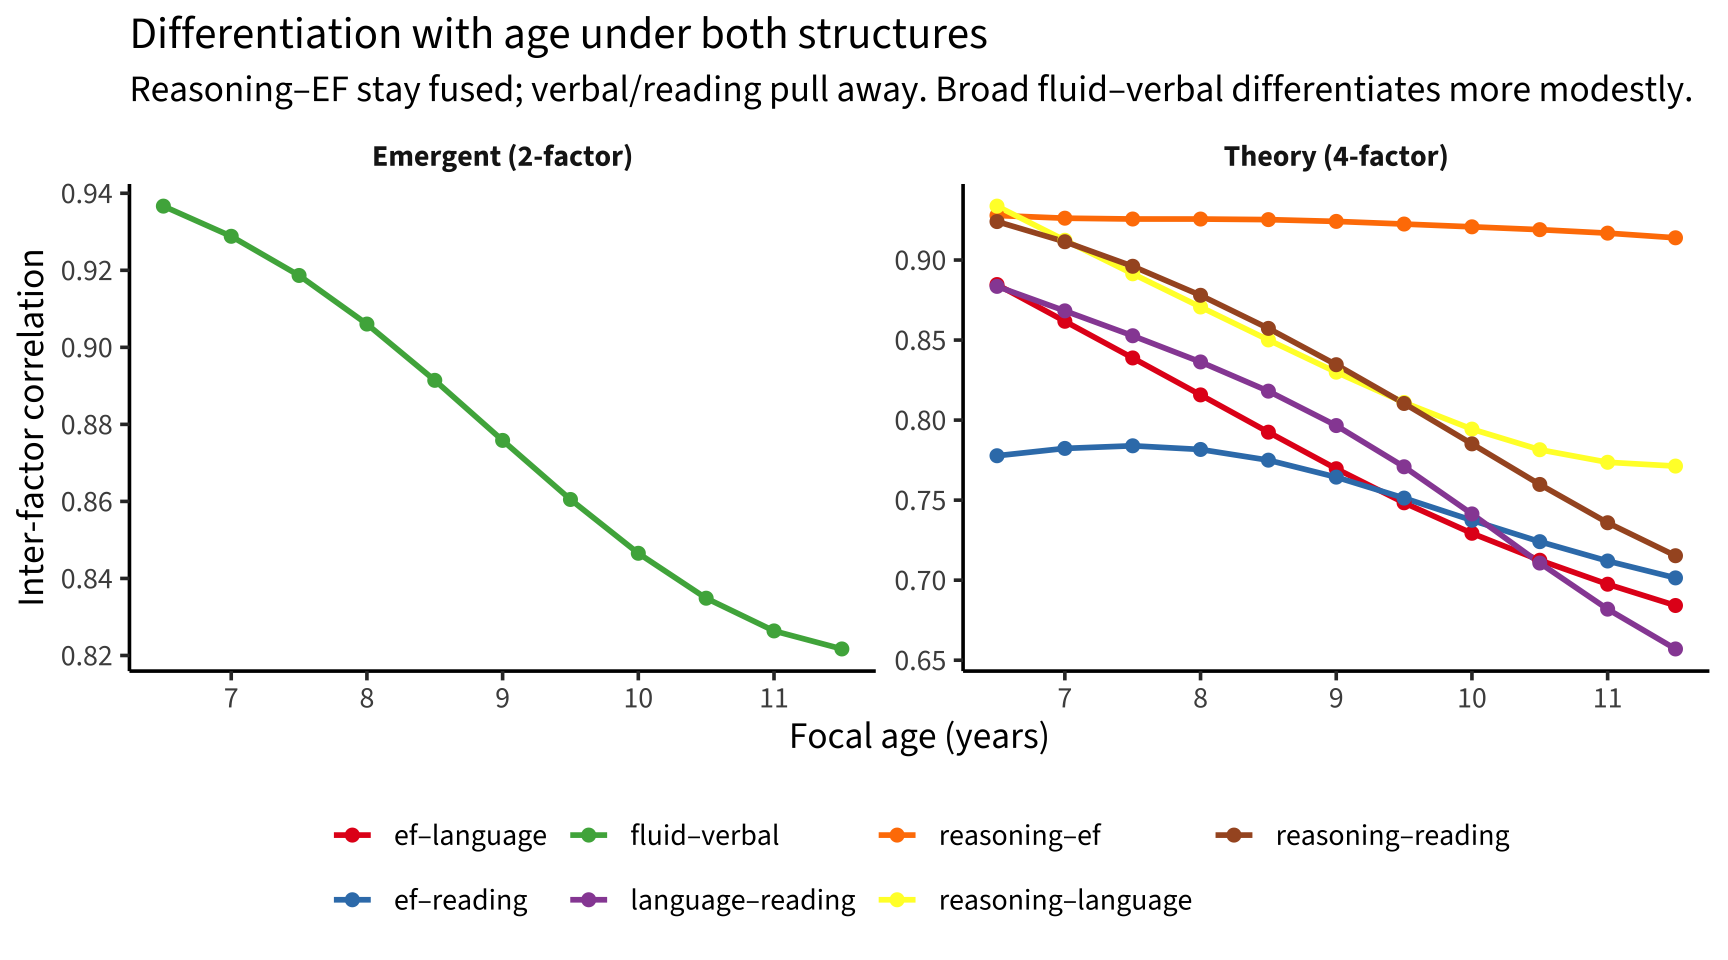
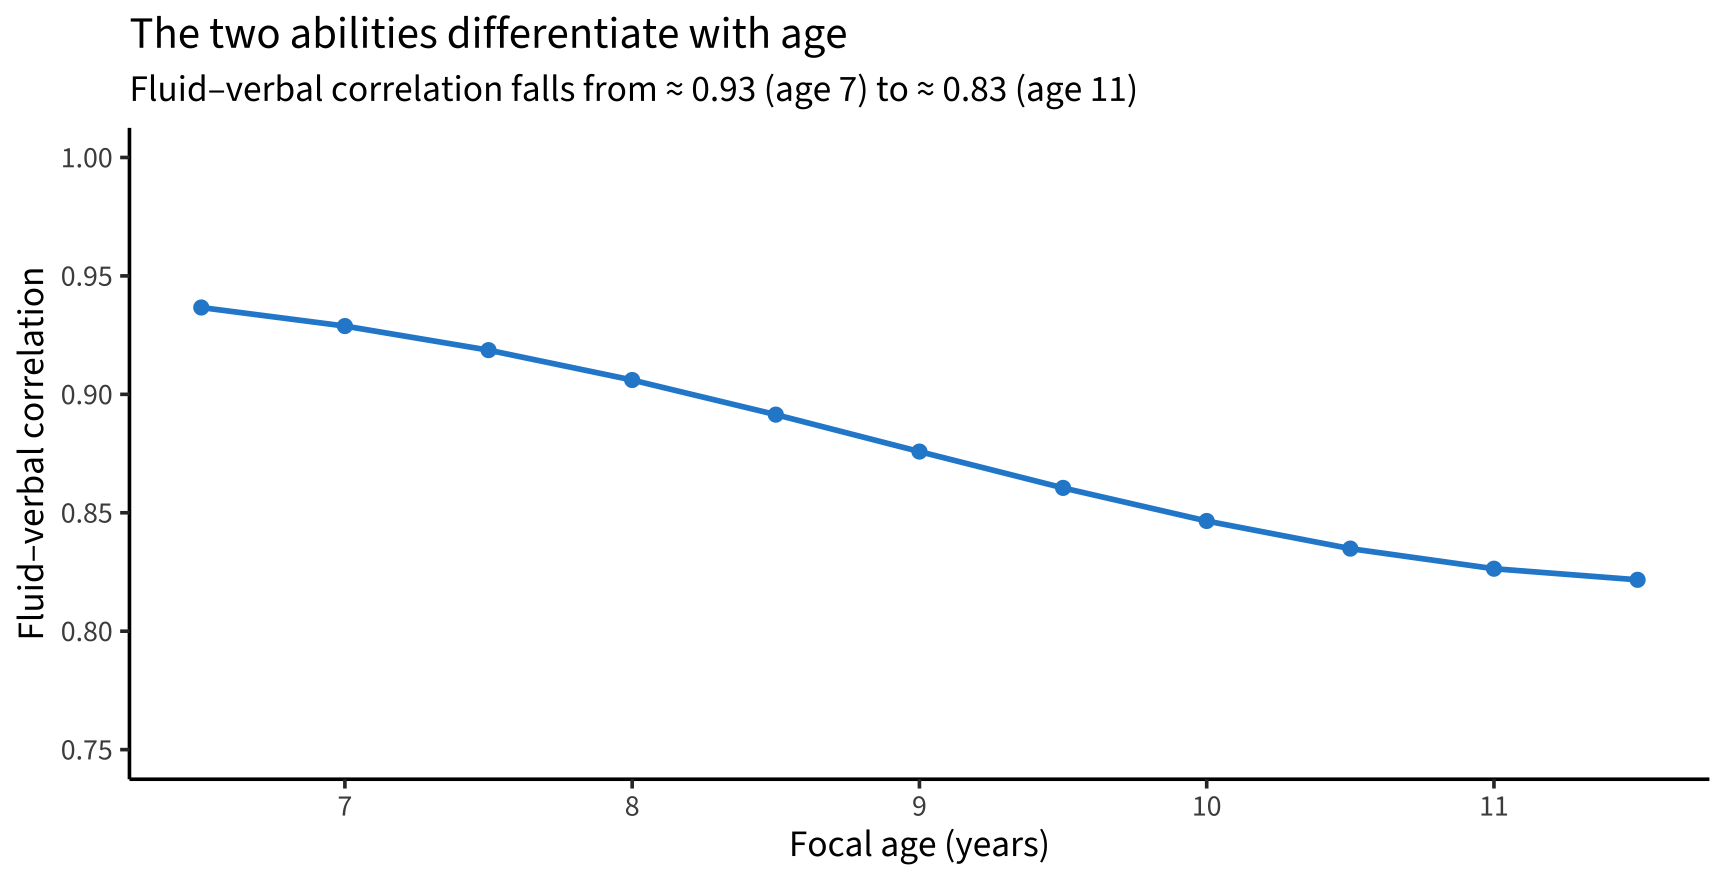
Rename 03/04 to match purpose; simplify 04 differentiation to the 2-factor
- 03_sem_growth.qmd -> 03_structure_invariance.qmd (construct structure &
  measurement invariance; the "growth" name was stale after the rewrite).
- 04_construct_structure.qmd -> 04_differentiation.qmd.
- 04: carry only the 2-factor (fluid/verbal) into the differentiation analysis
  (drop the 3- and 4-factor LOSEM now that 03 settled on the 2-factor as the
  BIC-preferred proper model). Single clean figure: fluid-verbal correlation
  falls 0.93->0.83 with age; notes 03's age-bin invariance => structural, not
  loading drift.
- Updated filename references (README, slides) and refreshed the deck's
  age-differentiation figure/caption to the simplified 2-factor curve.

Notebooks are still numbered 03/04; old LGC content remains at
old/03_sem_growth_lgc.qmd. README + memory updated.

diff --git a/README.md b/README.md
@@ -15,8 +15,8 @@ See `~/Projects/LEVANTE.md` for cross-project LEVANTE context.
 | `00_load_data.qmd` | Pull + cache `levante_data_latest` v1.2, apply cleaning, inventory by site/task/age, **log of known data issues**. Writes `data/scores_all_sites.rds` (cleaned) and `scores_raw.rds`. |
 | `01_data_integrity.qmd` | Per-(site, task) audit + verdict table (`data/task_site_verdict.rds`). Adaptive/mode coverage, RTM, extreme scores, score SE. |
 | `02_growth.qmd` | Per-task longitudinal growth (LMMs) for Leipzig / Bogotá; within-child vs cross-sectional slopes. |
-| `03_sem_growth.qmd` | **Construct structure & measurement invariance.** Disattenuated (fixed-error) task correlations (single-indicator problem); structure comparison g/2f/3f/bifactor read propriety→BIC→fit; per-site replication; site (DE+CA) and age-bin **measurement-invariance ladders**. (Previous latent-growth version preserved in `old/03_sem_growth_lgc.qmd`.) |
-| `04_construct_structure.qmd` | Construct structure with the **full 13-measure set** — ROAR (reading) and MEFS (EF) treated as real measures, not validators. ESEM first (~2 factors: fluid + verbal/literacy; MEFS→fluid, ROAR→verbal), then age-differentiation (local SEM) under three structures — the emergent 2-factor (fluid/verbal), 03's preferred 3-factor (reasoning/EF/language), and the theory 4-factor (+reading) — plus a shared-speed/method check. |
+| `03_structure_invariance.qmd` | **Construct structure & measurement invariance.** Disattenuated (fixed-error) task correlations (single-indicator problem); structure comparison g/2f/3f/bifactor read propriety→BIC→fit; per-site replication; site (DE+CA) and age-bin **measurement-invariance ladders**. (Previous latent-growth version preserved in `old/03_sem_growth_lgc.qmd`.) |
+| `04_differentiation.qmd` | Construct structure with the **full 13-measure set** — ROAR (reading) and MEFS (EF) treated as real measures, not validators. ESEM first (~2 factors: fluid + verbal/literacy; MEFS→fluid, ROAR→verbal), then age-differentiation (local SEM) of the **2-factor** (fluid/verbal, 03's preferred structure; fluid–verbal r falls 0.93→0.83 with age), plus a shared-speed/method check. |
 | `05_battery_design.qmd` | **Battery-length optimization.** Combines the calibrated factor structure, per-task marginal reliabilities, and per-task durations (newest/adaptive versions) to find how well shorter task subsets recover factor scores (factor-score determinacy, Monte-Carlo validated). Enumerates the full minutes-vs-recovery frontier; defines Full / Minor / Minimal / broad-screen versions. |
 | `06_within_child_variability.qmd` | **Within-child variability (exploratory).** Extracts three naive per-child indices — RT intra-individual variability (SD log-RT), person-misfit (IRT infit), 2-wave growth deviation — assesses their reliability, then asks whether they cohere across tasks/indices and change with age. §4 adds model-based upgrades (guessing-aware person-fit via recorded `chance`; random-slope growth; RT-IIV variance-components). |
 | `07_rt_variability.qmd` | **RT-IIV deep dive.** Purifies the RT signal (detrend within-task time-course, AR(1); all-vs-correct-trials parameter) and examines cross-task structure (correlation matrix + factor analysis, all tasks & a reliable/high-trial subset), RT-IIV reliability vs trial count, **site & age differences** (examined, not regressed out), and **longitudinal test–retest stability** (Leipzig + Bogotá). |
@@ -45,7 +45,7 @@ retired exploratory notebooks. Data and rendered HTML are git-ignored.
 - **Stories/ToM** is a reliable but heterogeneous composite (not unidimensional);
   question type organizes it more than story construct; controls drive most
   cross-language non-invariance; partial scalar invariance achievable on targets.
-- **The g-loading is substantive, not artifactual** (`04_construct_structure.qmd`,
+- **The g-loading is substantive, not artifactual** (`04_differentiation.qmd`,
   now with ROAR + MEFS as first-class measures): it's within-site (not a site-mean
   effect) and ~orthogonal to response speed (not a method artifact). Empirically
   the 13-measure battery is ~**two** correlated factors (fluid/nonverbal incl.